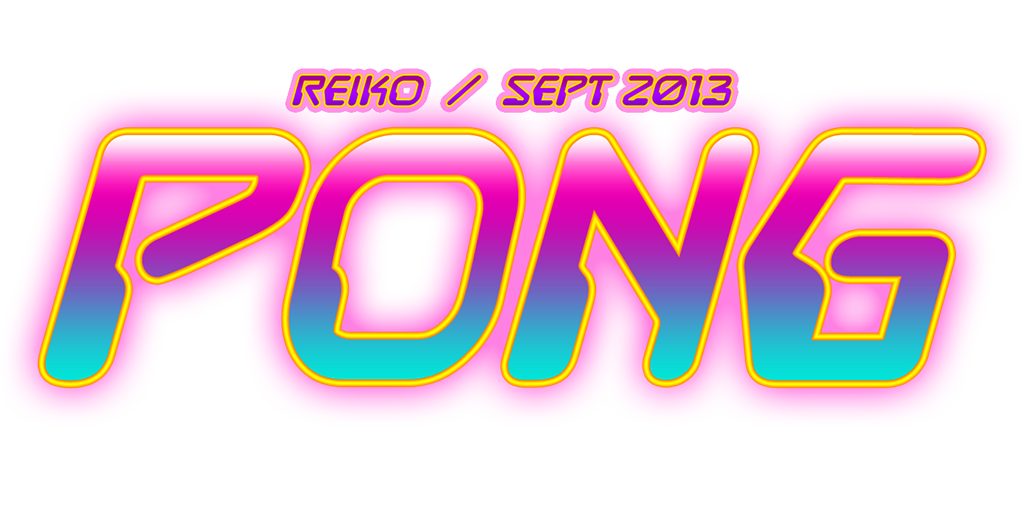
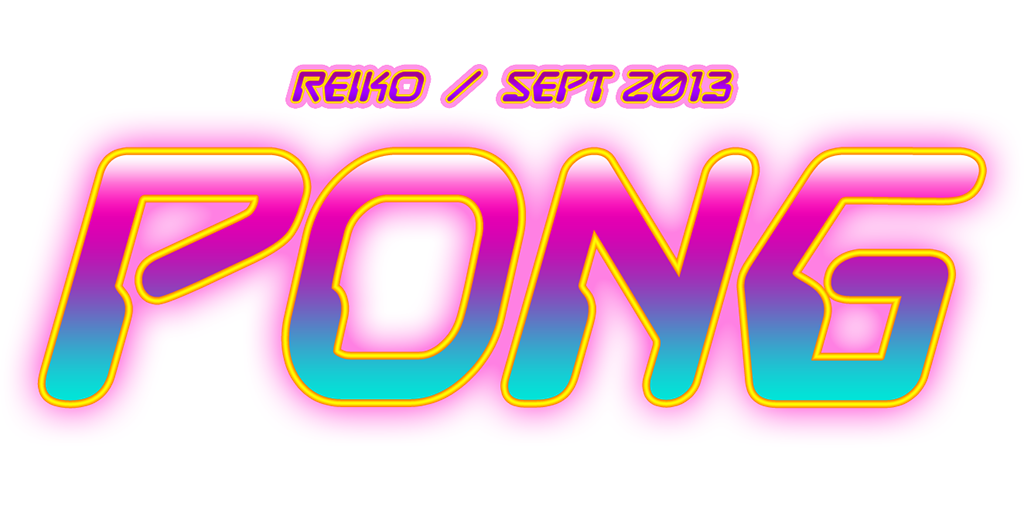
Added Tap To Play text on title screen

diff --git a/PongGameAndroid/CppSource/source/TapToPlayText.cpp b/PongGameAndroid/CppSource/source/TapToPlayText.cpp
@@ -1,4 +1,4 @@
-#include "TitleText.h"
+#include "TapToPlayText.h"
 
 #include "Application.h"
 #include "Renderer.h"
@@ -11,9 +11,9 @@
 extern Application* app;
 
 // Constructor. Iniitialises variables.
-TitleText::TitleText()
+TapToPlayText::TapToPlayText()
 	//: GameObject(0.9f, 0.047f * (1080.0f / 1920.0f), // height and width - viewing phone horizontally
-	: GameObject(2.0f, 2.0f, // height and width - viewing phone horizontally
+	: GameObject(0.3f, 1.25f, // height and width - viewing phone horizontally
 	0.0f, // speed
 	Vector2()), // position
 	vertCount(6),
@@ -23,18 +23,18 @@ TitleText::TitleText()
 	colors = new GLfloat[vertCount * 4]; // 4 floats make up each color
 	texCoords = new GLfloat[vertCount * 2]; // 2 dimensional coords
 
-	pos.y = 0.125f;
+	pos.y = -0.75f;
 }
 
-TitleText::~TitleText()
+TapToPlayText::~TapToPlayText()
 {
 	delete[] verts;
 	delete[] colors;
 	delete[] texCoords;
 }
 
-// Draws the title text on the screen.
-void TitleText::draw()
+// Draws the text on the screen.
+void TapToPlayText::draw()
 {
 	// Draw only if object is visible
 	if (!visible) return;
@@ -42,14 +42,14 @@ void TitleText::draw()
 	app->getRenderer()->drawArray(verts, vertCount, colors, texCoords, texture);
 }
 
-// Sets the position of the title text. Sets dirty if new position is not the current one.
-void TitleText::setPos(const float x, const float y)
+// Sets the position of the text. Sets dirty if new position is not the current one.
+void TapToPlayText::setPos(const float x, const float y)
 {
 	GameObject::setPos(x, y);
 }
 
-// Recalculates vertices that make up triangles to create the title text
-void TitleText::recalcVerts()
+// Recalculates vertices that make up triangles to create the text
+void TapToPlayText::recalcVerts()
 {
 	// Recalc only if dirty
 	if (!dirty)
@@ -84,13 +84,13 @@ void TitleText::recalcVerts()
 	dirty = false;
 }
 
-// Updates Title Text status (such as position)
-void TitleText::update()
+// Updates Text status (such as position)
+void TapToPlayText::update()
 {
-	// Update title text position
+	// Update text position
 	updatePos();
 
-	// Update title text color
+	// Update text color
 	updateColor();
 
 	// Recalculate verts if needed
@@ -98,23 +98,21 @@ void TitleText::update()
 		recalcVerts();
 }
 
-// Moves title text toward destination position
-void TitleText::updatePos()
+// Moves text toward destination position
+void TapToPlayText::updatePos()
 {
 	
 }
 
-// Animates the title text's color
-void TitleText::updateColor()
+// Animates the text's color
+void TapToPlayText::updateColor()
 {
-	return; // disabled for now
-
 	if (colorDir)
 		colorStep += 0.005f;
 	else
 		colorStep -= 0.005f;
 
-	if (colorStep > 0.2f) { colorStep = 0.2f; colorDir = !colorDir; }
+	if (colorStep > 0.3f) { colorStep = 0.3f; colorDir = !colorDir; }
 	else if (colorStep < 0.0f) { colorStep = 0.0f; colorDir = !colorDir; }
 
 	for (int i = 0; i < vertCount; ++i)
@@ -126,8 +124,8 @@ void TitleText::updateColor()
 	}
 }
 
-// Loads texture for the title text from .apk
-void TitleText::loadTexture()
+// Loads texture for the text from .apk
+void TapToPlayText::loadTexture()
 {
 	// Don't load again if already loaded
 	if (texture)
@@ -135,7 +133,7 @@ void TitleText::loadTexture()
 
 	// Load texture from file
 	int width, height;
-	texture = loadTextureFromPNG("assets/title.png", width, height);
+	texture = loadTextureFromPNG("assets/tap_screen_to_play.png", width, height);
 
 	// Set up texture coords
 	texCoords[0] = 1.0f;	texCoords[1] = 0.0f;

diff --git a/PongGameAndroid/CppSource/source/Application.cpp b/PongGameAndroid/CppSource/source/Application.cpp
@@ -8,6 +8,7 @@
 //#include <math.h>
 
 #include "TitleText.h"
+#include "TapToPlayText.h"
 #include "Player.h"
 #include "TheBall.h"
 #include "Renderer.h"
@@ -24,7 +25,8 @@ zip* APKArchive;
 // Constructor
 Application::Application(int width, int height, const char* apkPath)
 	: player(new Player[2]), renderer(new Renderer(width, height)), inputManager(new InputManager()),
-	timer(new Timer()), theBall(new TheBall()), titleText(new TitleText()), showTitle(true)
+	timer(new Timer()), theBall(new TheBall()), titleText(new TitleText()), showTitle(true),
+	tapToPlayText(new TapToPlayText())
 {
 	loadAPK(apkPath);
 
@@ -50,6 +52,7 @@ Application::Application(int width, int height, const char* apkPath)
 	gameObjects[1] = &player[1];
 	gameObjects[2] = theBall;
 	gameObjects[3] = titleText;
+	gameObjects[4] = tapToPlayText;
 
 	scoreTokenP1 = new ScoreToken[10];
 	scoreTokenP2 = new ScoreToken[10];
@@ -65,8 +68,8 @@ Application::Application(int width, int height, const char* apkPath)
 		scoreTokenP2[i].setVisible(false);
 
 		// Set up game object pointers
-		gameObjects[4 + i] = &scoreTokenP1[i];
-		gameObjects[14 + i] = &scoreTokenP2[i];
+		gameObjects[5 + i] = &scoreTokenP1[i];
+		gameObjects[15 + i] = &scoreTokenP2[i];
 	}
 
 	loadTextures();
@@ -120,11 +123,13 @@ void Application::renderFrame()
 	{
 		titleText->update();
 		titleText->draw();
+		tapToPlayText->update();
+		tapToPlayText->draw();
 	}
 	else
 	{
 		// Draw all game objects
-		for (int i = 23; i >= 0; --i)
+		for (int i = 24; i >= 0; --i)
 		{
 			gameObjects[i]->update();
 			gameObjects[i]->draw();
@@ -180,7 +185,7 @@ void Application::score(const int playerId)
 
 void Application::loadTextures()
 {
-	for (int i = 0; i < 24; ++i)
+	for (int i = 0; i < 25; ++i)
 		gameObjects[i]->loadTexture();
 }
 
@@ -201,12 +206,14 @@ void Application::gameOver(const int winnerPlayerId)
 
 	showTitle = true;
 	titleText->setVisible(true);
+	tapToPlayText->setVisible(true);
 }
 
 void Application::startGame()
 {
 	showTitle = false;
 	titleText->setVisible(false);
+	tapToPlayText->setVisible(false);
 }
 
 bool Application::playing() const

diff --git a/PongGameAndroid/CppSource/header/TapToPlayText.h b/PongGameAndroid/CppSource/header/TapToPlayText.h
@@ -1,0 +1,41 @@
+#pragma once
+
+#include "GameObject.h"
+
+class TapToPlayText : public GameObject
+{
+	// Current step in animating the text's color
+	float colorStep;
+	bool colorDir;
+
+	// Recalculates vertices that make up triangles to create the text
+	void recalcVerts();
+
+	// Moves the text toward destination position
+	void updatePos();
+
+	// Animates the text's color
+	void updateColor();
+
+	// Number of vertices in the object
+	int vertCount;
+
+public:
+	// Constructor. Iniitialises variables.
+	TapToPlayText();
+
+	// Destructor. Frees memory.
+	~TapToPlayText();
+
+	// Loads texture for the text from .apk
+	void loadTexture();
+
+	// Draws the text
+	void draw();
+
+	// Sets the position of the text. Sets dirty if new position is not the current one.
+	void setPos(const float x, const float y);
+
+	// Updates Text status (such as position)
+	void update();
+};

diff --git a/PongGameAndroid/CppSource/header/Application.h b/PongGameAndroid/CppSource/header/Application.h
@@ -1,6 +1,7 @@
 #pragma once
 
 class TitleText;
+class TapToPlayText;
 class Player;
 class Renderer;
 class InputManager;
@@ -13,6 +14,7 @@ class Application
 {
 	bool showTitle;
 	TitleText* titleText;
+	TapToPlayText* tapToPlayText;
 	Player* player;
 	TheBall* theBall;
 	Renderer* renderer;
